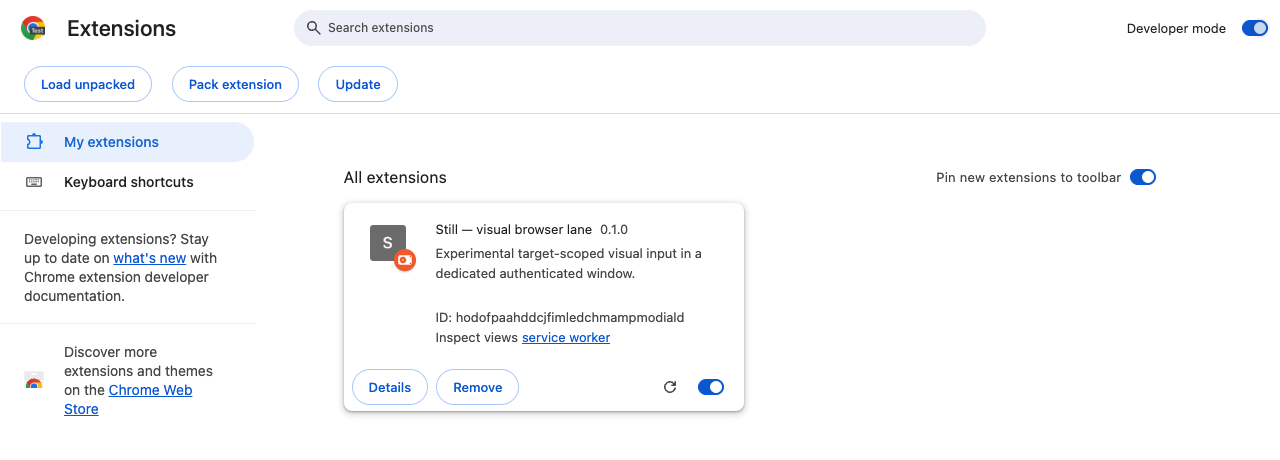
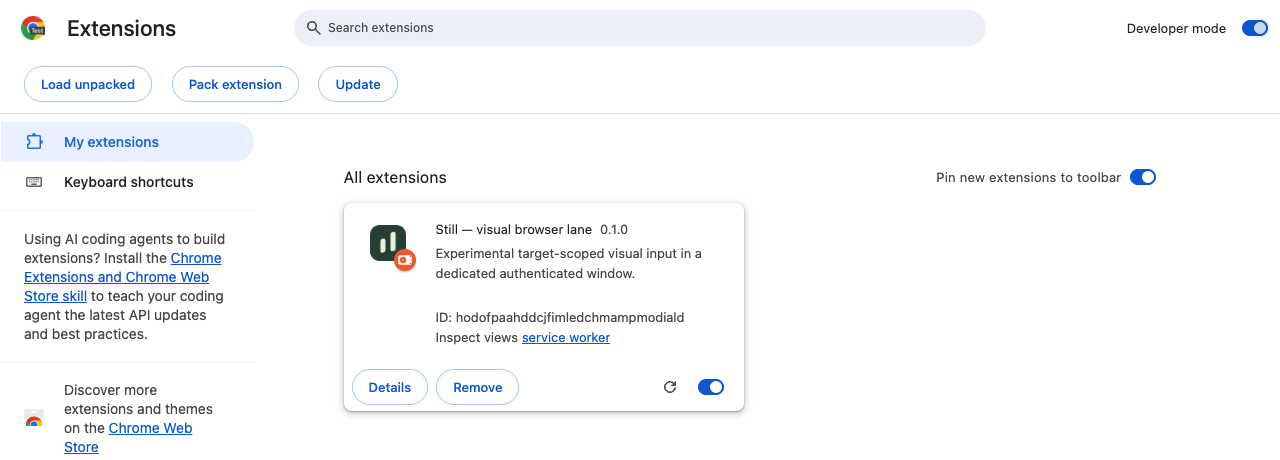
docs: refresh the visual setup guide and explain starting websites precisely

Changed region(s): [[0.0, 0.487, 0.1875, 1.0], [0.2812, 0.487, 0.3438, 0.5783]]

diff --git a/README.md b/README.md
@@ -99,24 +99,31 @@ replacing anything. [Recovery instructions.](docs/TROUBLESHOOTING.md)
 ### 4. Create the agent lane
 
 Click **Still** in Chrome's toolbar, or open it through the puzzle-piece extensions
-menu. Enter the **starting origins** the agent will need, one per line. For example:
+menu. Under **Starting websites**, enter where the agent may open a task, one website
+per line. For example:
 
 ```text
 https://www.google.com
 http://127.0.0.1:8741
 ```
 
-An origin is the protocol, hostname and port—not a full page path. `localhost` and
-`127.0.0.1` are different hostnames for this check.
+You can enter a domain such as `www.google.com` or a full address. Still adds
+`https://` to a bare domain and saves just the website part of a page address.
+The protocol, hostname and port must match; `localhost` and `127.0.0.1` differ.
 
-<img src="docs/images/lane-setup.png" alt="Still setup with two approved starting origins and the Create dedicated lane button." width="372">
+<img src="docs/images/lane-setup.png" alt="Compact Still setup showing Starting websites, a notice that links and redirects can leave them, and Create agent window." width="384">
 
-Click **Create dedicated lane**. You should see a separate Chrome window titled
+Click **Create agent window**. You should see a separate Chrome window titled
 **Still agent lane**. Keep that window restored and switch back to your own window.
-The screenshot above is the real extension UI, populated with example origins.
+The screenshot above is the real extension UI, populated with example websites.
+**Connected** appears only after the local connection is confirmed. If installation
+is incomplete, the panel shows **Not connected** and offers a retry.
 
-Starting-origin approval restricts requested navigation; it is **not a network
-sandbox**. Page links, redirects and subresources can leave that list.
+![The redesigned empty agent window with instructions to keep it open and return to your usual window.](docs/images/agent-window.png)
+
+**Starting websites controls where tasks start, not where the agent can browse.**
+Pages can still link or redirect to other websites. This is not a network sandbox;
+iframes and other page requests are not blocked by this setting.
 
 ### 5. Connect Codex to Still
 
@@ -198,7 +205,7 @@ pointer, window/Space, authentication, visual workflow, durability and ownership
 | Starting a task | Ask for `$still-browser` in a conversation with Still tools available. |
 | Finishing a task | The agent calls `lane_close`; the empty lane stays available. |
 | Lane focused or minimized | Switch to your own window or restore the lane manually. The agent must not activate it. |
-| Adding another website | Finish/close agent sessions, reload Still at `chrome://extensions`, then prepare a fresh lane with the full origin list. Reload loses ownership; manually close only recognizable old Still windows. |
+| Adding another website | Finish/close agent sessions, open Still, edit **Starting websites**, and click **Save starting websites**. The existing window is reused; no reload is needed. |
 | Agent reports stale frame | Take a fresh screenshot before the next input. |
 | Missing host or renderer timeout | Follow [troubleshooting](docs/TROUBLESHOOTING.md); do not copy cookies or switch to desktop input. |
 | Native authentication, permission sheet or popup | Stop at that unsupported boundary and hand off as appropriate. |
@@ -242,14 +249,23 @@ deliberately reproduces unsafe raw Tab traversal in a disposable test build; do 
 use it during normal work. Generated test artifacts stay in ignored `artifacts/`.
 Review them before sharing.
 
-Regenerate the four documentation screenshots with:
+Check the setup UI, including missing-connection recovery and saving websites:
+
+```sh
+node experiments/setup.mjs
+```
+
+Regenerate the five documentation screenshots with:
 
 ```sh
 node scripts/capture-docs.mjs
 ```
 
-The generator uses a disposable Chrome for Testing profile and a temporary local demo
-server, then removes both. The overview SVG is a diagram, not a screenshot. No
+The toolbar PNG icons are generated from `extension/icons/still.svg` with
+`node scripts/render-icons.mjs`.
+
+The screenshot generator uses a disposable Chrome for Testing profile and a temporary
+local demo server, then removes both. The overview SVG is a diagram, not a screenshot. No
 personal browser screenshots or profile data are part of this documentation.
 
 - [Architecture](docs/ARCHITECTURE.md) — ownership, transport, rendering and failures.

diff --git a/docs/EVIDENCE.md b/docs/EVIDENCE.md
@@ -243,3 +243,40 @@ Google is eliminated or revalidate physical focus behavior on the updated build.
 Updated the product skill and its installed local copy. The source fix requires an
 extension reload/reprepare and a fresh MCP connection before normal Chrome uses it;
 the running personal-profile extension was not reloaded during this task.
+
+## E11: compact setup UI and precise starting-website language, 2026-11-17
+
+Replaced “Approved starting origins” with **Starting websites** and the visible
+explanation: “Choose where tasks can start. Pages can still link or redirect to other
+websites.” No network/redirect enforcement was added or implied. The setting still
+restricts explicit start/navigation URLs. Setup accepts domains/full URLs, stores
+unique exact HTTP(S) origins and rejects credentials and non-web schemes.
+
+The popup now shows real setup/connection/paused status, loading/error states and a
+small illustration of the human/agent windows. A native-host readiness message is
+sent only after its owner-only socket is listening. UI success requires that message;
+a missing host is reported without falsely declaring readiness. Retrying connection
+and saving websites reuse an existing lane. Website changes are refused while a
+session is open. No agent-facing API or foreground-activation call was added.
+
+`node experiments/setup.mjs` passed in disposable headless Chrome for Testing
+159.0.8154.6: invalid input creates no window; missing host gives a connection error;
+installing the disposable host then retrying reuses the same window; readiness follows
+the handshake; settings survive reopening; saving creates no extra window; focused
+lane displays Paused; closed lane can be recreated; active-session settings are locked.
+The initial panel measured 528 px high, connected panel 596.27 px, at 384 px width.
+Setup, ready, error and agent-window screenshots were visually inspected.
+
+A focus-return probe initially timed out: headless Chrome reported both windows as
+focused after synthetic focus changes. Reloading the UI did not change those API
+flags. The test now checks Paused correctly and closes/recreates only the disposable
+lane for later checks; it does not weaken the production guard or claim real macOS
+focus transitions were certified. No native UI actions were used in the personal
+Chrome profile. Applying the update there still requires an extension reload.
+
+20 automated policy/transport tests passed, including native readiness and setup URL
+validation. The full MCP-to-browser navigation-probe workflow also passed 30 renderer
+rounds with iframe/history recapture and human fixture preservation. Documentation,
+matching toolbar/agent-window branding and five synthetic-data screenshots were
+updated. The installed product skill was synchronized and validated. No publication
+or push is part of this change.

diff --git a/skills/still-browser/SKILL.md b/skills/still-browser/SKILL.md
@@ -70,7 +70,7 @@ when authentication or account identity matters. Do not assume every site inheri
 a session: tab-local storage, expired/device-bound sessions and fresh consent differ.
 Report a login requirement accurately rather than extracting authentication data.
 
-Starting-origin approval matches protocol, hostname and port; it is **not** a network
+The **Starting websites** setting matches protocol, hostname and port; it is **not** a network
 sandbox. Links, redirects and resources can go elsewhere. The skill does not grant
 permission to send, publish, buy, delete or change account settings. Follow the user's
 actual task and the environment's action policy; preserve approvals already given.
@@ -95,9 +95,10 @@ Screenshots may contain private data and reach the configured model provider.
   error. Let the human switch away, restore or reprepare as appropriate. A poisoned
   lane needs extension reload/setup and a fresh MCP connection; no native fallback.
 - **Unapproved starting origin:** identify the required origin, including its port.
-  The human can add it through extension setup. Do not edit the implementation to
-  bypass the approval list. Setup currently requires closing sessions, reloading the
-  extension and preparing a new lane to change origins.
+  The human can add it under **Starting websites** in the Still panel after closing
+  active agent sessions, then choose **Save starting websites**. This reuses the
+  existing window; no reload is required. Do not edit the implementation to bypass
+  the starting-URL check. It is not a restriction on links or redirects.
 - **Debugger detach:** the backend may reattach after `target_closed` only to the
   same still-owned tab. Respect user cancellation and ownership revocation. A tab
   moved into a human window must be left alone.

diff --git a/docs/ARCHITECTURE.md b/docs/ARCHITECTURE.md
@@ -19,10 +19,13 @@ flowchart LR
 ## Lifecycle
 
 1. Human loads the extension, registers its exact origin with the native host and
-   approves starting origins through the popup. Setup creates a separate unfocused
+   chooses starting websites through the popup. The label describes a starting-URL
+   check, not a site-access boundary. Setup creates a separate unfocused
    window containing an anchor. No automatic Chrome restart or launch-flag change.
 2. A native port starts `src/native-host.js`. It creates a 0700 directory and 0600
-   Unix socket. It refuses an existing socket instead of stealing another profile's
+   Unix socket, then sends a readiness handshake. Setup reports a connection only
+   after that handshake; failed connection attempts can reuse the same lane window.
+   It refuses an existing socket instead of stealing another profile's
    connection. Chrome's host manifest allows only the installed extension ID.
 3. Each socket gets a random session ID assigned by the host. Caller-supplied IDs
    are overwritten. The MCP toolset has no target enumeration/selection primitive.
@@ -95,3 +98,7 @@ Strict general isolation needs a Chrome-owned target class whose browser UI cann
 activate a desktop window, whose popup descendants inherit ownership, and whose
 modal surfaces are rendered into the lane. Such a change should live upstream;
 after-the-fact focus restoration is interference and is not an acceptable substitute.
+
+The setup popup can read its own lane/bridge state and update starting websites
+when there are no active sessions. Saving reuses the existing window. This user-only
+setup channel adds no agent-facing methods and cannot enumerate human tabs.

diff --git a/docs/TROUBLESHOOTING.md b/docs/TROUBLESHOOTING.md
@@ -1,8 +1,10 @@
 # Troubleshooting
 
-**No browser connection / ENOENT:** load the extension in the intended profile,
-register its exact ID with `scripts/install-host.mjs`, then prepare the lane from its
-popup. Confirm `~/.still/browser.sock` exists. GUI-launched Chrome may not inherit your
+**Not connected / ENOENT:** load the extension in the intended profile,
+register its exact ID with `scripts/install-host.mjs`, then click **Connect browser**
+or **Create agent window** in its popup. A failed connection retry reuses the window
+it already created. Confirm `~/.still/browser.sock` exists. GUI-launched Chrome may
+not inherit your
 shell PATH; the installer pins the absolute Node path. Moving the checkout requires
 re-registering the manifest after reviewing/removing the old one.
 
@@ -38,6 +40,11 @@ Do not retry uncertain page input or focus the lane to recover.
 **Debugger detached:** Chrome DevTools or another extension may have detached Still.
 A target_closed event can reattach only to the same validated owned tab. Other
 detach reasons require closing the session and creating a fresh one. Do not attach to a human tab or bypass Chrome’s restriction on another extension URL.
+
+**Starting websites:** this is a starting-URL check, not a website blocklist.
+Links, redirects and page requests can reach other websites. To change the list,
+finish agent sessions, edit **Starting websites** and click **Save starting websites**.
+Reloading the extension is not required for this setting.
 
 **Stale frame:** the rejected input was not dispatched. Take a fresh screenshot
 before each click/type/key/scroll. Navigation or a prior input invalidates the token;

diff --git a/docs/VALIDATION.md b/docs/VALIDATION.md
@@ -77,3 +77,13 @@ socket. Timeouts may require a manual extension reload; seamless recovery is not
 Acceptance is conjunctive. Passing a synthetic cookie test does not certify all
 sites, passing PID monitoring does not certify same-app windows, and passing headless
 automation does not certify human concurrency. Keep failures in the evidence log.
+
+## Setup interface
+
+`node experiments/setup.mjs` runs the real setup page in a disposable Chrome profile.
+It checks invalid input, missing native host, handshake-based readiness, retry without
+a duplicate window, saving/reopening settings, active-session edit refusal, paused
+status after a simulated focus change and recovery after closing the lane. The
+connected popup is checked to fit within a 600 px height. It does not certify real
+macOS focus transitions: headless Chrome can report both windows focused after
+synthetic window-focus operations. The test preserves the production focus guard.
